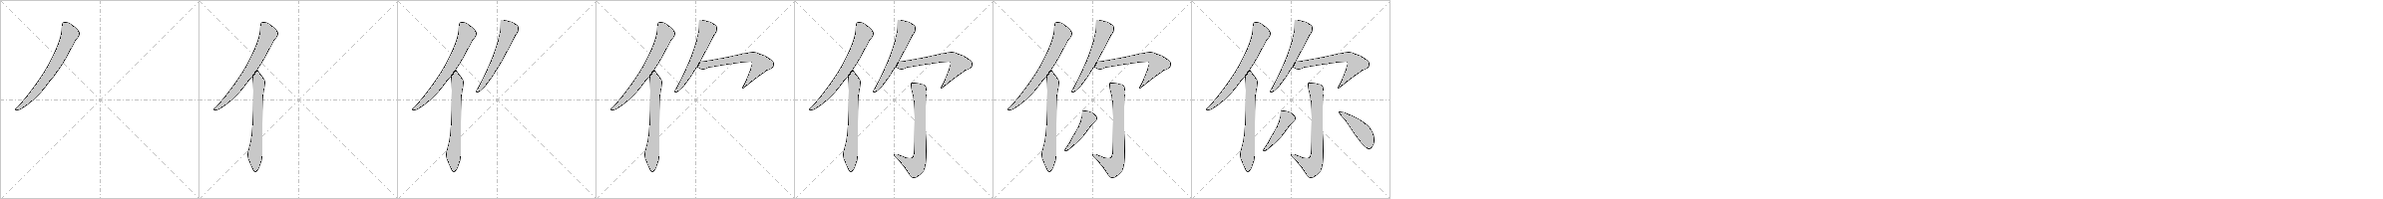
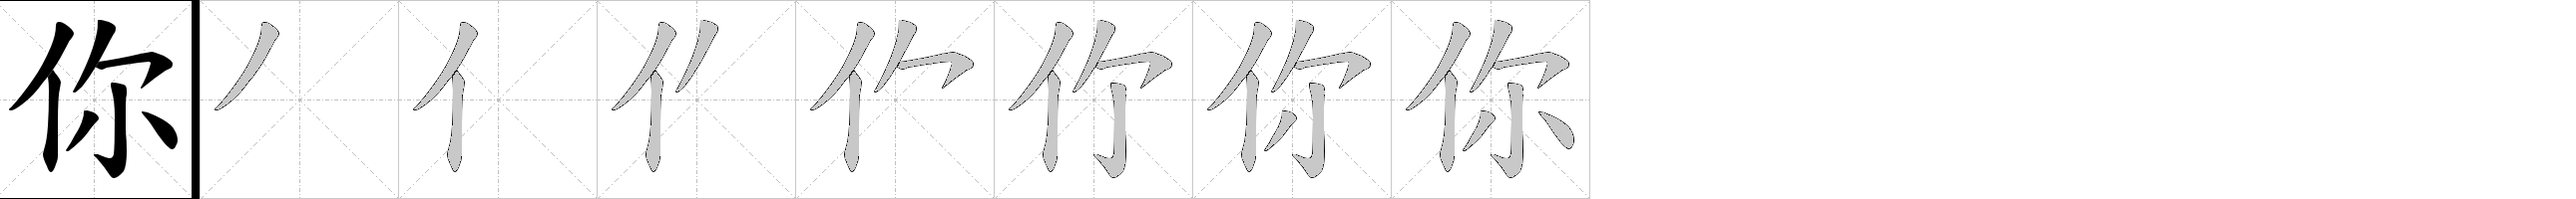
updated, finish the page 1

Changed region(s): [[0.0, 0.0, 0.6195, 1.0], [0.5576, 0.99, 0.6195, 1.0], [0.5885, 0.0, 0.6195, 0.03]]

diff --git a/templates/index.html b/templates/index.html
@@ -41,7 +41,7 @@
         function loadPDF() {
             var userInput = document.getElementById('userInput').value;
             var userInputs = userInput.split('\n');
-
+            
             fetch('/generate_pdf', {
                 method: 'POST',
                 headers: {
@@ -53,10 +53,7 @@
                 return response.blob();
             })
             .then(function(pdfBlob) {
-                // Create a URL for the PDF blob
                 var pdfUrl = URL.createObjectURL(pdfBlob);
-
-                // Set the src attribute of the iframe to the PDF URL
                 var pdfIframe = document.getElementById('pdf-iframe');
                 pdfIframe.src = pdfUrl;
             });

diff --git a/worksheet.py b/worksheet.py
@@ -2,94 +2,141 @@ import os
 import requests
 import numpy as np
 import pinyin as py
+from itertools import zip_longest
 from pinyin.cedict import translate_word
-from PIL import Image, ImageOps
+from PIL import Image
 from io import BytesIO
 from reportlab.lib.pagesizes import A4
 from reportlab.pdfgen import canvas
 from reportlab.pdfbase import pdfmetrics
 from reportlab.pdfbase.ttfonts import TTFont
 
-def change_color(image_path):
-    try:
-        image = Image.open(image_path)
+def get_chinese_word_png(chinese_word):
+    unicode_hex = chinese_word.encode('unicode-escape').decode()[2:]
+    image_path = f"assets/strokes/sequence/{unicode_hex}.png"
+
+    # if os.path.exists(image_path):
+    #     image = Image.open(image_path)
+    #     width, height = image.size
+    #     return image_path, height
+
+    url = f"https://ckc.eduhk.hk/apps/strokes/sequence/200/{unicode_hex}.png"
+    response = requests.get(url)
+
+    if response.status_code == 200:
+        image = Image.open(BytesIO(response.content))
+
+        block_size = 200
+        width, height = image.size
+        num_blocks = width // block_size
+
+        # Find the last non-white square block
+        last_block = None
+        for i in range(num_blocks-1, -1, -1):
+            block = image.crop((i * block_size, 0, (i+1) * block_size - 8, block_size))
+            pixels = np.array(block)
+            if not np.all(pixels == 255):  # Check if the block is not entirely white
+                last_block = block
+                break
+
+        # change the color
         image = image.convert("RGB")
         image_array = np.array(image)
         target_color = (0, 0, 0)
         target_channels = np.array(target_color)
         color_mask = np.all(image_array == target_channels, axis=2)
         image_array[color_mask] = [200, 200, 200]
-        modified_image = Image.fromarray(image_array)
-        modified_image.save(image_path)
-        print("Color changed to red and saved successfully.")
-    except IOError:
-        print("Unable to change the color to red.")
+        image = Image.fromarray(image_array)
 
-def get_chinese_word_png(chinese_word):
-    unicode_hex = chinese_word.encode('unicode-escape').decode()[2:]
-    image_path = f"assets/strokes/sequence/{unicode_hex}.png"
+        # merge the image
+        new_image = Image.new("L", (width + block_size - 7, height))
+        new_image.paste(last_block, (0, 0))
+        new_image.paste(image, (block_size , 0))
 
-    if os.path.exists(image_path):
-        image = Image.open(image_path)
-        width, height = image.size
-        return image_path, width, height
+        # save the image
+        new_image.save(image_path)
 
-    url = f"https://ckc.eduhk.hk/apps/strokes/sequence/200/{unicode_hex}.png"
-    response = requests.get(url)
-
-    if response.status_code == 200:
-        os.makedirs(os.path.dirname(image_path), exist_ok=True)
-        with open(image_path, 'wb') as f:
-            f.write(response.content)
-        image = Image.open(BytesIO(response.content))
-        change_color(image_path)
-        width, height = image.size
         return image_path, width, height
 
 def add_rice_grid(c, height):
     for index in range(1, 10):
         c.drawImage('assets/image/ricegrid.png', 50 * index, height, width=50, height=50)
 
-def add_vocabulary(c, vocabulary, pdf_height):
-    w, h = A4
-    max_dimension = 500
-    translation = translate_word(vocabulary)
+# def add_vocabulary(c, vocabulary, pdf_height):
+#     w, h = A4
+#     max_dimension = 500
+#     translation = translate_word(vocabulary)
     
-    for index, word in enumerate(vocabulary, start=1):
+#     for index, word in enumerate(vocabulary, start=1):
 
-        # pinyin = py.get(word, format='diacritical')
-        # c.setFillColorRGB(0, 0, 0)
-        # c.setFont("Cousine", 20)
-        # c.drawString(50 * index, h - pdf_height, pinyin)
+#         # pinyin = py.get(word, format='diacritical')
+#         # c.setFillColorRGB(0, 0, 0)
+#         # c.setFont("Cousine", 20)
+#         # c.drawString(50 * index, h - pdf_height, pinyin)
         
-        c.drawImage('assets/image/ricegrid.png', 50 * index, h - pdf_height - 45 - 10, width=50, height=50)
-        add_rice_grid(c, 100)
-        c.setFillColorRGB(0.7845, 0.7845, 0.7845)
-        c.setFont("baseFont", 50)
-        c.drawString(50 * index, h - pdf_height - 45, word)
+#         c.drawImage('assets/image/ricegrid.png', 50 * index, h - pdf_height - 45 - 10, width=50, height=50)
+#         add_rice_grid(c, 100)
+#         c.setFillColorRGB(0.7845, 0.7845, 0.7845)
+#         c.setFont("baseFont", 50)
+#         c.drawString(50 * index, h - pdf_height - 45, word)
 
 
-    for index, word in enumerate(vocabulary, start=1):
+#     for index, word in enumerate(vocabulary, start=1):
+#         image_path, width, height = get_chinese_word_png(word)
+#         scaling_factor = min(max_dimension / width, max_dimension / height)
+#         c.drawImage(image_path, 50, h - pdf_height - 45 * index - 60, width=int(width * scaling_factor), height=int(height * scaling_factor))
+
+#     return pdf_height
+
+def page_one(c, vocabularies):
+    w, h = A4
+    c.setFillColorRGB(0.7845, 0.7845, 0.7845)
+    c.setFont("baseFont", 40)
+    
+    height = 50
+    for index, (vocabulary1, vocabulary2) in enumerate(zip_longest(vocabularies[::2], vocabularies[1::2]), 1):
+        c.rect(20, h - height - 100 * index, 177, 80)
+        c.rect(20 + 177, h - height - 100 * index, 100, 80)
+        c.rect(20 + 277, h - height - 100 * index, 177, 80)
+        c.rect(20 + 277 + 177, h - height - 100 * index, 100, 80)
+        w_height = height - 30 + 100 * index 
+        x_start = 25
+        for x, word in enumerate(vocabulary1):
+            c.drawImage('assets/image/ricegrid.png', x_start + 40 * x , h - w_height - 10, width=40, height=40)
+            c.drawString(x_start + 40 * x, h - w_height, word)
+        x_start += 277
+        if vocabulary2 is not None:
+            for x, word in enumerate(vocabulary2):
+                c.drawImage('assets/image/ricegrid.png', x_start + 40 * x , h - w_height - 10, width=40, height=40)
+                c.drawString(x_start + 40 * x, h - w_height, word)
+                    
+def page_two(c, words):
+    w, h = A4
+    # c.showPage()
+    p_height = 0 
+    max_dimension = 500
+    for index, word in enumerate(words):
         image_path, width, height = get_chinese_word_png(word)
-        scaling_factor = min(max_dimension / width, max_dimension / height)
-        c.drawImage(image_path, 50, h - pdf_height - 45 * index - 60, width=int(width * scaling_factor), height=int(height * scaling_factor))
+        scaling_factor = max_dimension / width
+        c.drawImage(image_path, 50, h - 50 - int(height * scaling_factor) - 10 * index, width=int(width * scaling_factor), height=int(height * scaling_factor))
+        p_height = int(height * scaling_factor)
 
-    return pdf_height
 
-def add_new_page():
-    pass
-
-def generate_worksheet_pdf(vocabularies=['你好']):
+# 補
+def generate_worksheet_pdf(vocabularies=['你好'], words='寶'):
     pdf_buffer = BytesIO()
     pdfmetrics.registerFont(TTFont('baseFont', 'assets/font/DFPKaiShuW3-B5.ttf'))
     pdfmetrics.registerFont(TTFont('Cousine', 'assets/font/Cousine.ttf'))
     c = canvas.Canvas(pdf_buffer, pagesize=A4)
-
-    pdf_height = 50
-    for vocabulary in vocabularies:
-        add_vocabulary(c, vocabulary, pdf_height)
-        break
+    page_one(c, vocabularies)
+    page_two(c, words)
     c.save()
     pdf_data = pdf_buffer.getvalue()
     pdf_buffer.close()
     return pdf_data
+
+def test():
+    get_chinese_word_png('你')
+    pass
+
+test()
